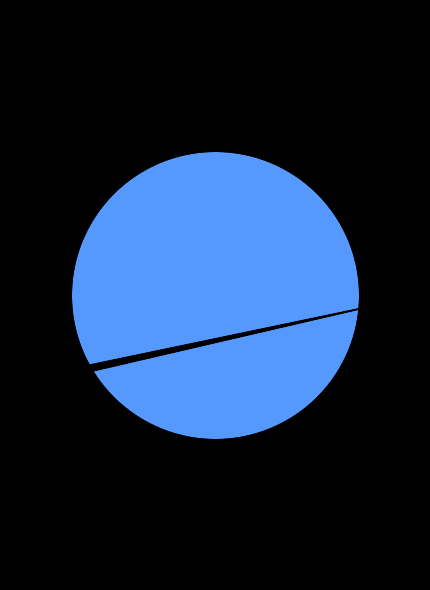
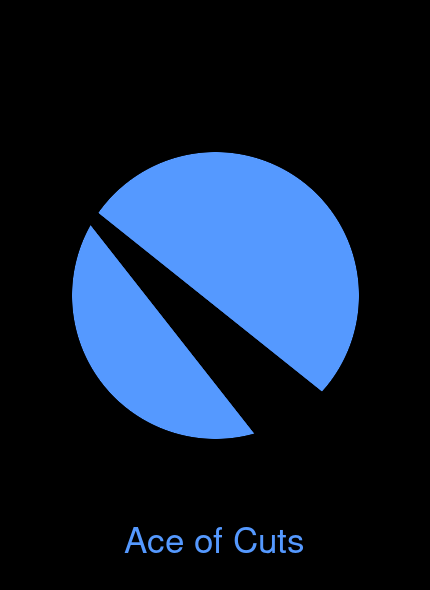
add text and implement numbers for cuts and sparks

diff --git a/minimalist_painter.rb b/minimalist_painter.rb
@@ -6,10 +6,16 @@ CANVAS_HEIGHT = 560
 CANVAS_WIDTH = 400
 CANVAS_MARGIN = 15
 
+GIFT_COLOR = 'rgb(39, 168, 0)'
+HUG_COLOR = '#bb3399'
+CUT_COLOR = '#5599ff'
+SPARK_COLOR = '#ff2200'
+
+FONT_SIZE = 35
+
 class MinimalistPainter
-  def self.paint(rank:, suit:, filename:)
+  def self.paint(rank:, suit:, filename:, text:)
     return if suit == :major
-    return unless rank == 0
 
     canvas = Magick::Image.new(
       CANVAS_WIDTH + (2 * CANVAS_MARGIN),
@@ -17,20 +23,35 @@ class MinimalistPainter
     )
     context = Magick::Draw.new
 
-    # background color
     context.fill('#000000')
     context.rectangle(0, 0, canvas.columns, canvas.rows)
 
-    send(
-      %i[ gift hug cut spark ][suit],
-      context:,
-      x: CANVAS_MARGIN,
-      y: ((CANVAS_HEIGHT - CANVAS_WIDTH) / 2) + CANVAS_MARGIN,
-      size: CANVAS_WIDTH
-    )
+    written = send(%i[ gifts hugs cuts sparks ][suit], rank + 1, context:)
+    return unless written
 
     context.draw(canvas)
+
+    add_text(
+      canvas:,
+      text:,
+      color: [GIFT_COLOR, HUG_COLOR, CUT_COLOR, SPARK_COLOR][suit]
+    )
+
     canvas.write(filename)
+  end
+
+  def self.add_text(canvas:, text:, color:)
+    text_context = Magick::Draw.new
+
+    text_context.font_family = 'Arial'
+    text_context.pointsize = FONT_SIZE
+    text_context.gravity = Magick::CenterGravity
+
+    text_context.annotate(
+      canvas, 0, 0,
+      0, CANVAS_HEIGHT / 2 - FONT_SIZE,
+      text
+    ) { |options| options.fill = color }
   end
 
   def self.rand_in_box(x1, x2, y1, y2)
@@ -42,6 +63,17 @@ class MinimalistPainter
   def self.string_from_box(*args)
     x, y = rand_in_box(*args)
     "#{x},#{y}"
+  end
+
+  def self.gifts(n, context:)
+    return unless n == 1
+
+    gift(
+      context:,
+      x: CANVAS_MARGIN,
+      y: ((CANVAS_HEIGHT - CANVAS_WIDTH) / 2) + CANVAS_MARGIN,
+      size: CANVAS_WIDTH
+    )
   end
 
   def self.gift(context:, x:, y:, size:)
@@ -99,8 +131,19 @@ class MinimalistPainter
     )
   end
 
+  def self.hugs(n, context:)
+    return unless n == 1
+
+    hug(
+      context:,
+      x: CANVAS_MARGIN,
+      y: ((CANVAS_HEIGHT - CANVAS_WIDTH) / 2) + CANVAS_MARGIN,
+      size: CANVAS_WIDTH
+    )
+  end
+
   def self.hug(context:, x:, y:, size:)
-    context.stroke('#bb3399')
+    context.stroke(HUG_COLOR)
     context.stroke_width(8)
     context.fill_opacity(0)
     context.stroke_linecap('round')
@@ -124,15 +167,28 @@ class MinimalistPainter
     ]
   end
 
-  def self.cut(context:, x:, y:, size:)
+  def self.cuts(n, context:)
+    return if n > 10
+
+    x = CANVAS_MARGIN
+    y = ((CANVAS_HEIGHT - CANVAS_WIDTH) / 2) + CANVAS_MARGIN
+    size = CANVAS_WIDTH
     center_x = x + size / 2
     center_y = y + size / 2
-    cut_start_angle = rand * TAU
-    cut_angle_a = cut_start_angle + 4 * TAU / 11 + rand * 3 * TAU / 11
-    cut_angle_b = cut_start_angle + 4 * TAU / 11 + rand * 3 * TAU / 11
 
-    context.fill('#5599ff')
+    context.fill(CUT_COLOR)
     context.circle(center_x, center_y, x + size / 2, y + size / 7)
+
+    (0..9).to_a.shuffle[0 .. n - 1].each do |start_position|
+      cut(context:, size:, center_x:, center_y:, start_position:)
+    end
+  end
+
+  def self.cut(context:, size:, center_x:, center_y:, start_position:)
+    cut_start_angle = start_position * TAU / 10
+    wiggle = rand * 2 * TAU / 11
+    cut_angle_a = cut_start_angle + 3.75 * TAU / 11 + rand * 1.5 * TAU / 11 + wiggle
+    cut_angle_b = cut_start_angle + 3.75 * TAU / 11 + rand * 1.5 * TAU / 11 + wiggle
 
     context.fill('#000000')
     context.polygon(
@@ -142,9 +198,33 @@ class MinimalistPainter
     )
   end
 
+  def self.sparks(n, context:)
+    return if n > 10
+
+    if n == 1
+      return spark(
+               context:,
+               x: CANVAS_MARGIN,
+               y: ((CANVAS_HEIGHT - CANVAS_WIDTH) / 2) + CANVAS_MARGIN,
+               size: CANVAS_WIDTH
+             )
+    end
+
+    size = CANVAS_WIDTH / 2
+    n.times do
+      x, y = rand_in_box(
+        CANVAS_MARGIN,
+        CANVAS_MARGIN + CANVAS_WIDTH - size,
+        CANVAS_MARGIN,
+        CANVAS_HEIGHT - size - FONT_SIZE
+      )
+      spark(context:, x:, y:, size:)
+    end
+  end
+
   def self.spark(context:, x:, y:, size:)
-    context.stroke('#ff2200')
-    context.stroke_width(1)
+    context.stroke(SPARK_COLOR)
+    context.stroke_width(2)
     context.fill_opacity(0)
     context.stroke_linecap('butt')
 

diff --git a/card.rb b/card.rb
@@ -26,8 +26,20 @@ class Card
   end
 
   def paint(filename:)
-    return @config.paint(rank: @n - 56, suit: :major, filename:) if major_arcana
+    if major_arcana
+      return @config.paint(
+               rank: @n - 56,
+               suit: :major,
+               filename:,
+               text: inspect
+             )
+    end
 
-    @config.paint(rank: @n % 14, suit: @n / 14, filename:)
+    @config.paint(
+      rank: @n % 14,
+      suit: @n / 14,
+      filename:,
+      text: inspect
+    )
   end
 end
